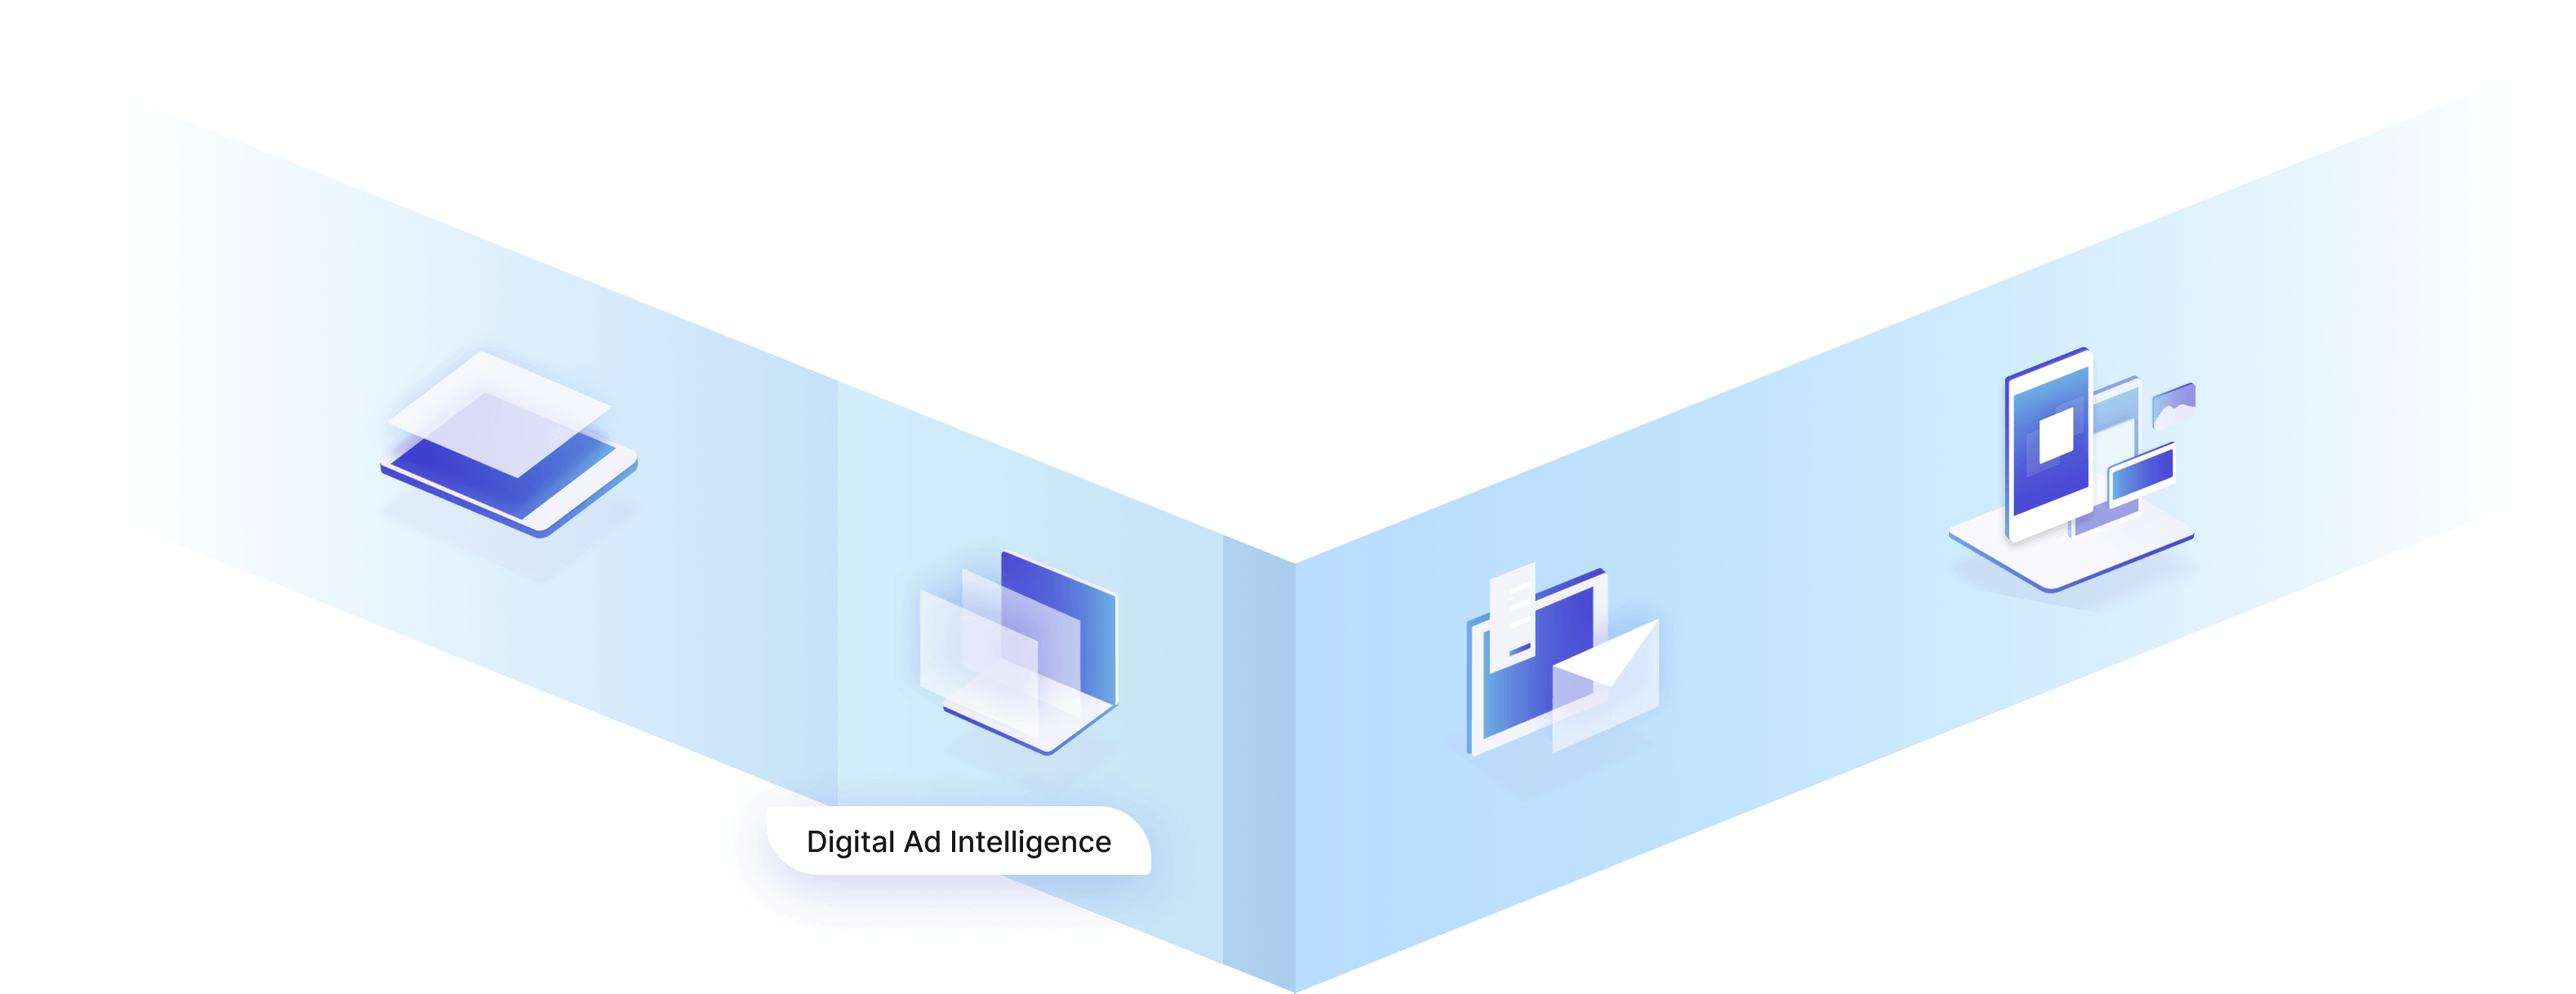
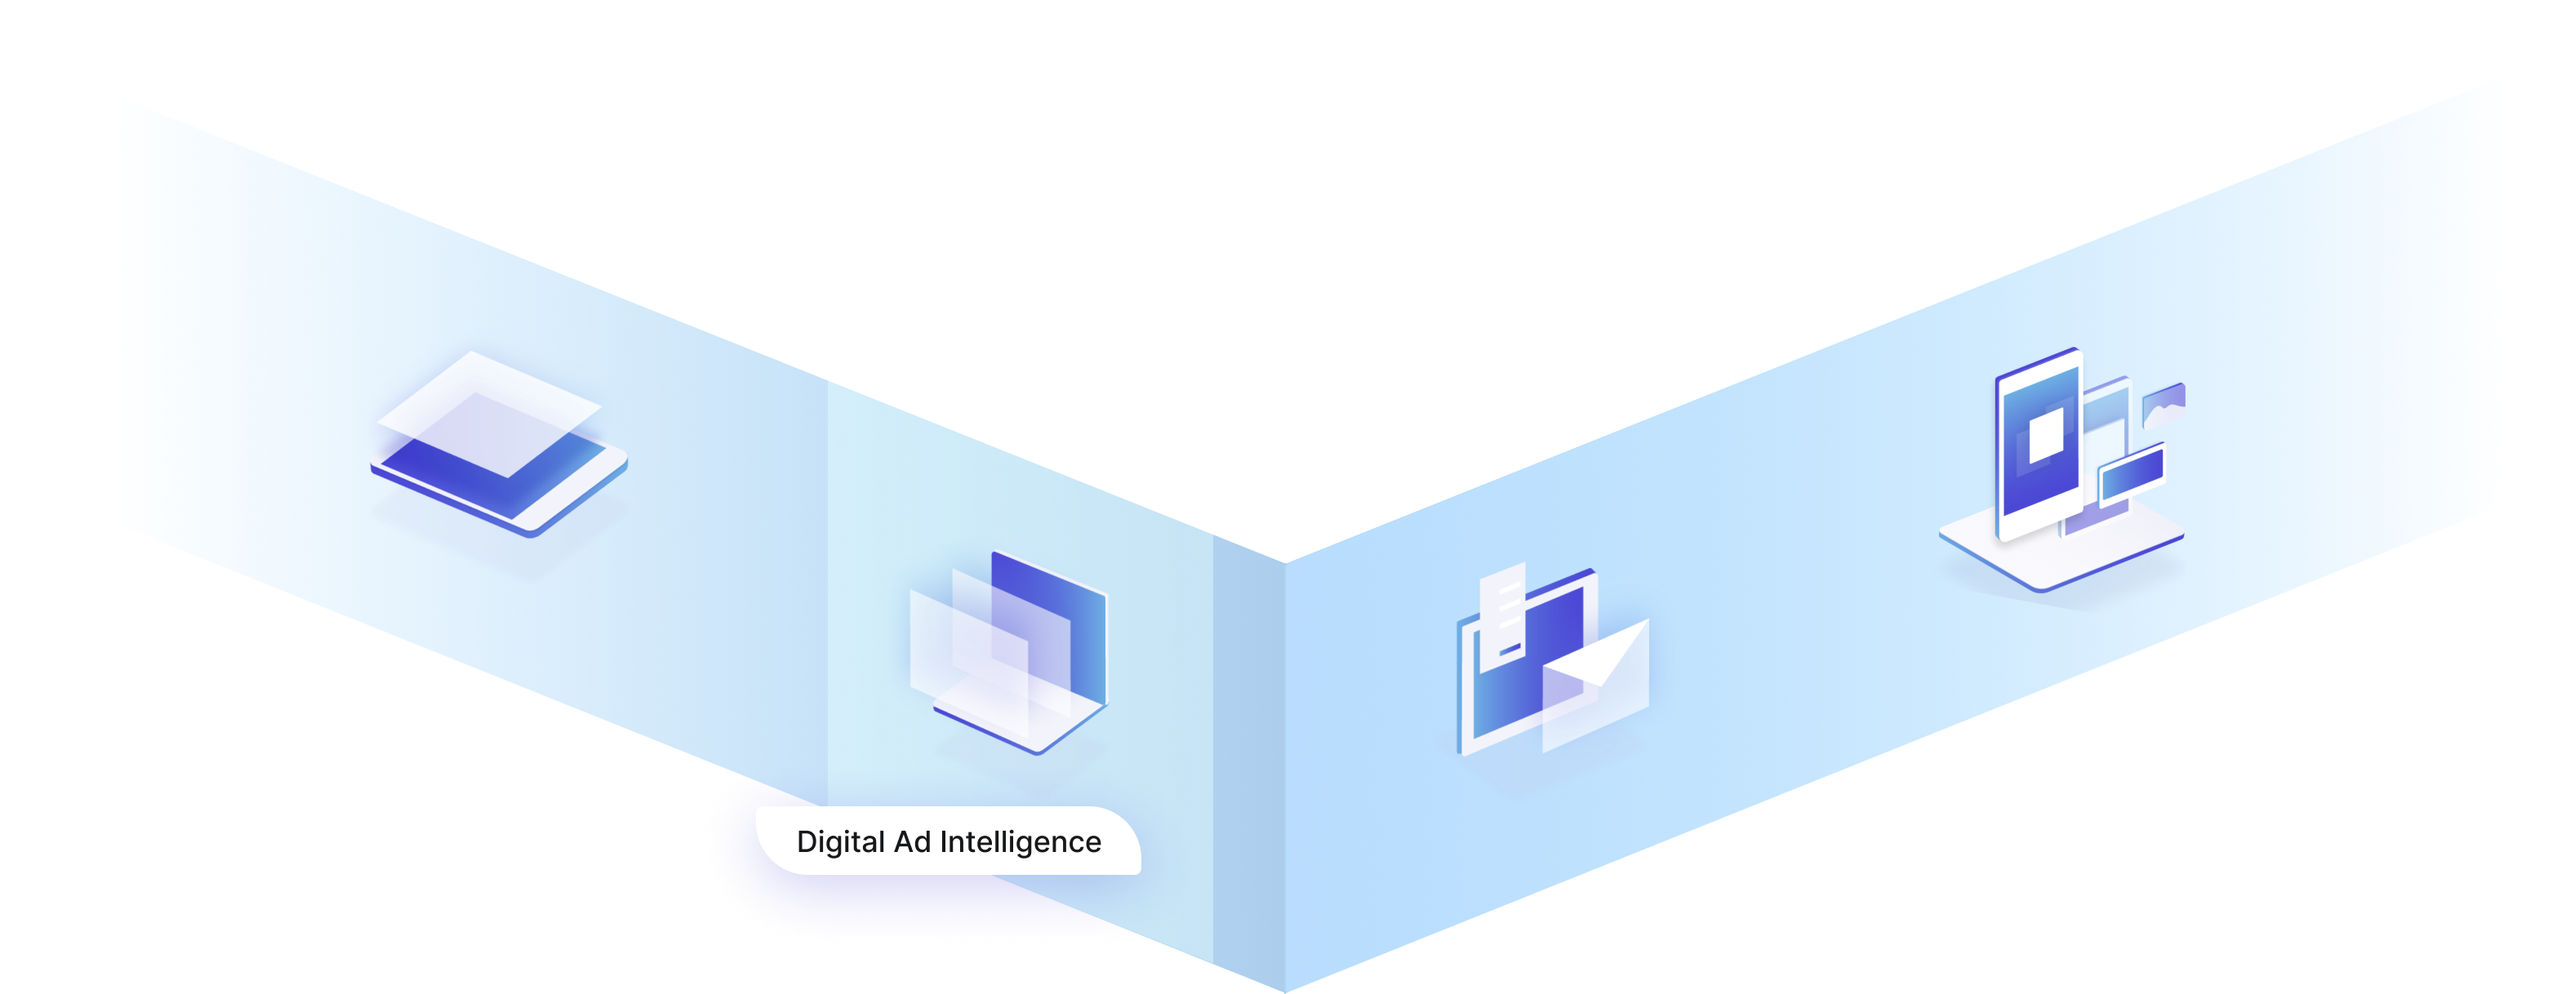
a

diff --git a/demos/bsc-hero/index.html b/demos/bsc-hero/index.html
@@ -17,7 +17,7 @@
                 <h1>Digital Intelligence at Scale</h1>
                 <h2>Millions measured daily. Billions of online transactions.</h2>
                 <p>Don’t settle for outdated research technology when you can tap on the most complete view<br>of the digital consumer. BIScience sets a new bar and provides the deepest digital intelligence<br>to market research companies, brands, publishers, retailers, and investment professionals</p>
-                <img src="images/alt4.png" style="left:2; bottom: 0; position: absolute;" width="100%">
+                <img src="images/alt4.png" style="left:0; bottom: 0; position: absolute;" width="100%">
 
                 <!--Next particle-->
                 <img id="map" src="images/bg.png" data-particle-gap="5" data-mouse-force="-30" class="next-particle">

diff --git a/demos/bsc-hero/styles.css b/demos/bsc-hero/styles.css
@@ -10,6 +10,7 @@ body{
     height: 100%;
     background-image: url("images/bg2.jpg");
     background-size: cover;
+    background-position: center;
 }
 
 #hero h1{
